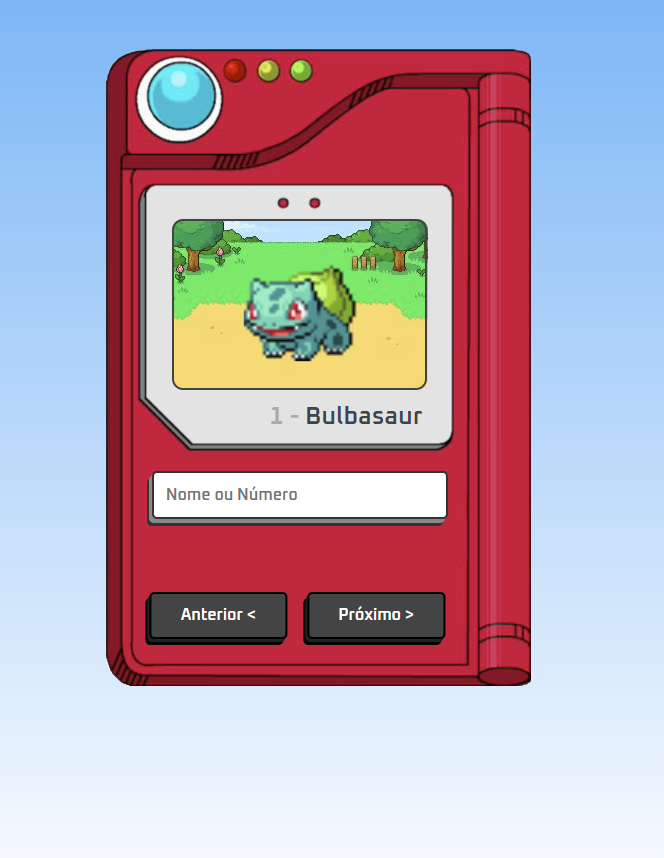
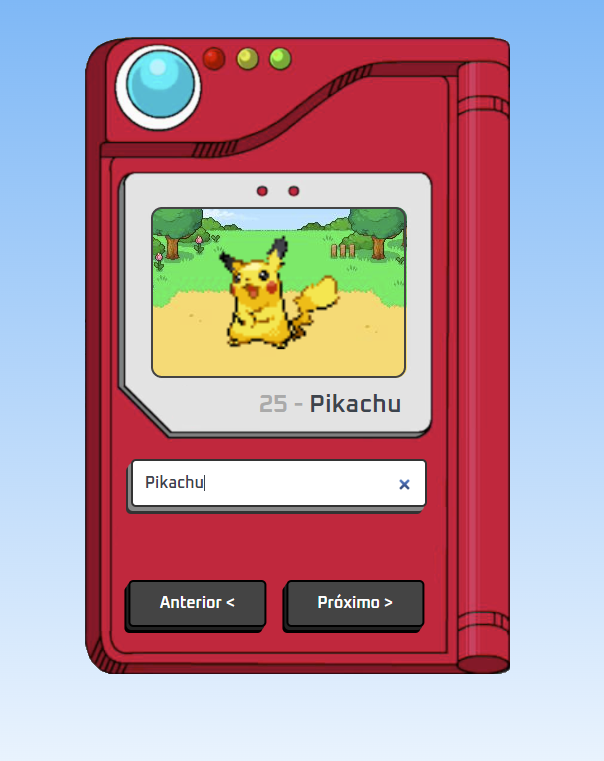
adição do arquivo README

diff --git a/README.md b/README.md
@@ -1,9 +1,223 @@
-# Pokédex
->Projeto Pokedex que realiza a busca dos pokemons atraves de nome ou numero em uma API e fornece os dados de imagem, nome e numero. 
+# Projeto Pokédex
+>Pokedex que realiza a busca dos pokemons atraves de nome ou numero em uma API e fornece os dados de imagem, nome e numero. 
 
 #### Linguagens Utilizadas: 
 - HTML
 - CSS
 - JavaScript
 ---
-![img](pokedex.final.PNG)
+
+### Imagem Inicial Pokédex
+<img src="D:\Hello World\gustavopokedex.github.io\imagens\pokedex.PNG" alt="pokedex"/>
+
+---
+### Imagem Final Pokédex
+<img src="D:\Hello World\gustavopokedex.github.io\imagens\pokedex.final.PNG" alt="pokedex"/>
+
+---
+#### Neste area do código foram adicionadas as imagens dos pokemons, nome e numero através de uma API e  tambem tratamento de erro caso o numero e nome digitado estivessem errados
+- **Linguagem: JavaScrpit**
+```js
+const pokemonName = document.querySelector('.pokemon__name');
+const pokemonNumber = document.querySelector('.pokemon__number');
+const pokemonImage = document.querySelector('.pokemon__image');
+
+const form = document.querySelector('.form');
+
+const input = document.querySelector('.input__search');
+const buttonPrev = document.querySelector('.btn-prev');
+const buttonNext = document.querySelector('.btn-next');
+
+let searchPokemon = 1;
+
+const fetchPokemon = async (pokemon) => {
+    const APIResponse = await fetch(`https://pokeapi.co/api/v2/pokemon/${pokemon}`);
+
+    if (APIResponse.status === 200){
+        const data = await APIResponse.json();
+        return data;
+    }
+}
+
+const renderPokemon = async (pokemon) => {
+    pokemonName.innerHTML = 'carregando...';
+    pokemonNumber.innerHTML = '';
+    const data = await fetchPokemon(pokemon);
+
+    if (data){
+        pokemonImage.style.display = 'block';
+        pokemonName.innerHTML = data.name;
+        pokemonNumber.innerHTML = data.id;
+        pokemonImage.src = data ['sprites']['versions']['generation-v']['black-white']['animated']['front_default'];
+        input.value='';
+        searchPokemon = data.id;
+    }else {
+        pokemonImage.style.display = 'none';
+        pokemonName.innerHTML = 'Não encontrado :('
+        pokemonNumber.innerHTML = '';
+    }
+}
+
+form.addEventListener('submit', (event) => {
+    event.preventDefault();
+    renderPokemon(input.value.toLowerCase());
+});
+
+buttonPrev.addEventListener('click', () => {
+    if (searchPokemon > 1){
+        searchPokemon -= 1;
+        renderPokemon(searchPokemon);
+    }
+    
+});
+
+buttonNext.addEventListener('click', () => {
+    searchPokemon += 1;
+    renderPokemon(searchPokemon);
+});
+renderPokemon(searchPokemon);
+```
+#### Area do código referente a parte em HTML
+- Linguagem: HTML
+```HTML
+<!DOCTYPE html>
+<html lang="en">
+<head>
+    <meta charset="UTF-8">
+    <meta name="viewport" content="width=device-width, initial-scale=1.0">
+
+    <!-- Links -->
+    <link rel="icon" href="./favicon/favicon-16x16.png">
+    <link rel="stylesheet" href="./css/style.css">
+
+    <!-- Java Script -->
+    <script defer src="./js/script.js"></script>
+
+    <title>gustavopokedex</title>
+</head>
+<body>
+
+    <main>
+        <img src="#" alt="pokemon" class="pokemon__image">
+
+        <h1 class="pokemon__data">
+            <span class="pokemon__number"></span> -
+            <span class="pokemon__name"></span>
+        </h1>
+
+        <form class="form">
+            <input type="search"
+            class="input__search"
+            placeholder="Nome ou Número"
+            required
+            
+            />
+        </form>
+
+        <div class="buttons">
+            <button class="button btn-prev">Anterior &lt;</button>
+            <button class="button btn-next">Próximo &gt;</button>
+        </div>
+
+        <img src="./imagens/pokedex.png" alt="pokedex" class="pokedex">
+    </main>
+    
+</body>
+</html>
+```
+#### E por Fim atraves do CSS adicionando escalabilidade na imagem da pokédex e estilização da caixa de pesquisa e botões
+- Linguagem: CSS
+```CSS
+@import url('https://fonts.googleapis.com/css2?family=Oxanium:wght@300;400;500;600;700;800&display=swap');
+* {
+    margin: 0;
+    padding: 0;
+    box-sizing: border-box;
+    font-family: 'Oxanium', cursive;
+}
+body {
+    text-align: center;
+    background: linear-gradient(to bottom, #6ab7f5, #fff);
+    min-height: 100vh;
+}
+main {
+    display: inline-block;
+    margin-top: 2%;
+    padding: 15px;
+    position: relative;
+}
+.pokedex {
+    width: 100%;
+    max-width: 425px;
+}
+.pokemon__image{
+    position: absolute;
+    bottom: 55%;
+    left: 50%;
+    transform: translate(-63%, 20%);
+    height: 18%;
+}
+.pokemon__data{
+    position: absolute;
+    font-weight: 600;
+    color: #aaa;
+    top: 54.5%;
+    right: 27%;
+    font-size: clamp(8px, 5vw, 25px);
+}
+.pokemon__name{
+    color: #3a444d;
+    text-transform: capitalize;
+}
+.form{
+    position: absolute;
+    width: 65%;
+    top: 65%;
+    left: 13.5%;
+}
+.input__search{
+    width: 100%;
+    padding: 4%;
+    outline: none;
+    border: 2px solid #333;
+    border-radius: 5px;
+    font-weight: 600;
+    color: #3a444d;
+    font-size: clamp(8px, 5vw, 1rem);
+    box-shadow: -3px 4px 0 #888, -5px 7px 0 #333;
+}
+.buttons{
+    position:absolute;
+    bottom: 10%;
+    left: 50%;
+    width: 65%;
+    transform: translate(-57%, 0);
+    display: flex;
+    gap: 20px;
+}
+.button {
+    width: 50%;
+    padding: 4%;
+    border: 2px solid #000;
+    border-radius: 5px;
+    font-size: clamp(8px, 5vw, 1rem);
+    font-weight: 600;
+    color: white;
+    background-color: #444;
+    box-shadow: -2px 3px 0 #222, -4px 6px 0 #000;
+}
+.button:active{
+    box-shadow: inset -4px 4px 0 #222;
+    font-size: 0.9rem;
+}
+```
+---
+## Contato 
+
+Gustavo Moreno - [Linkedin](https://www.linkedin.com/in/gustavo-moreno-5803a0229)
+
+Meu e-mail: gustavomorenosiqueira86@gmail.com
+
+Celular: (11) 99786-8798
+
+
